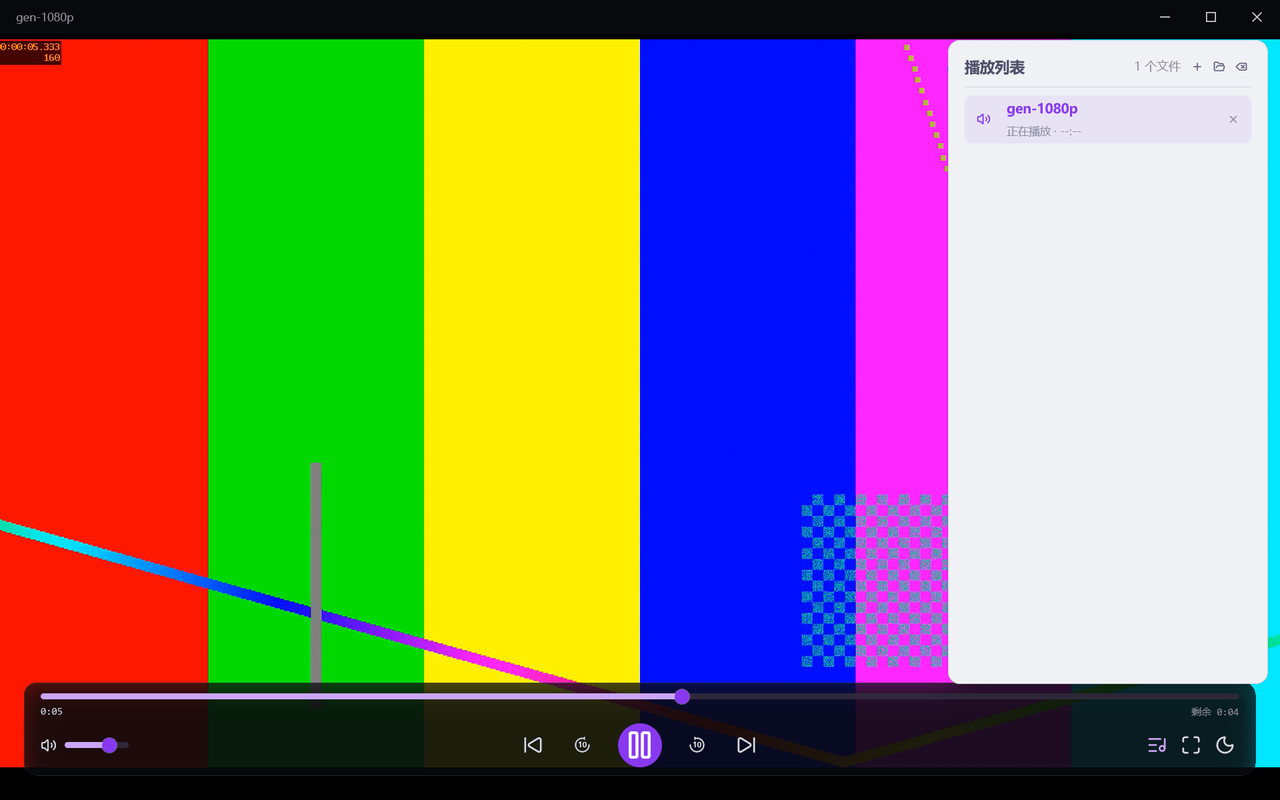
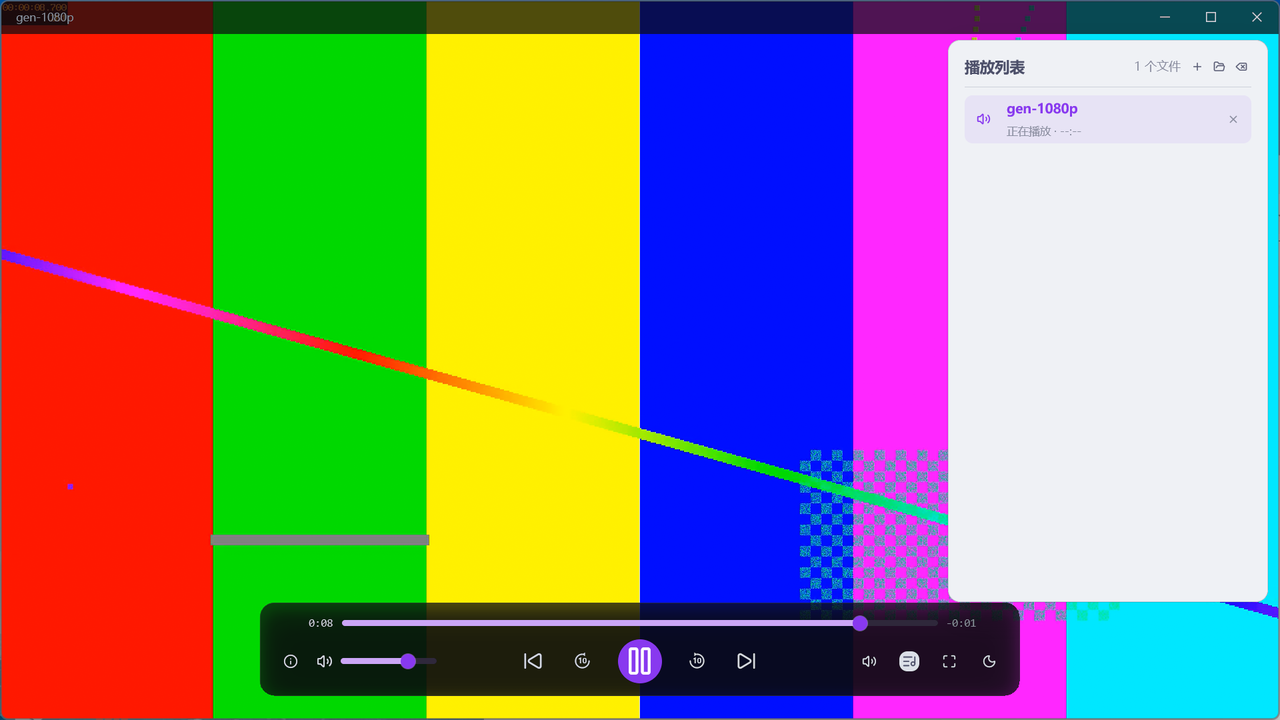
docs(readme): 重拍视频截图（控制栏 v3）+ 新增 ⓘ 信息卡一图
旧截图里胶囊还是铺满整宽的样子，与现在的固定 760 不符；三张图按 1280×720
逻辑像素重拍（打包版 exe + gen-1080p 素材），信息卡那张是新加的功能演示。

Changed region(s): [[0.0, 0.0, 1.0, 1.0]]

diff --git a/README.md b/README.md
@@ -39,6 +39,10 @@
 
 ![歌单悬浮在画面上，不挤占画面宽度](docs/screenshots/chroma-video-playlist.png)
 
+点胶囊左侧的 `ⓘ` 展开视频信息卡（再点收起）：
+
+![视频信息卡：分辨率/编码/码率/帧率/色彩/音频，浮在画面左下](docs/screenshots/chroma-video-info.png)
+
 ## 环境要求
 
 - **Windows 10 / 11**（当前只验证了 Windows；GPUI Kit 本身跨平台，代码里 macOS/Linux 分支未测试）
